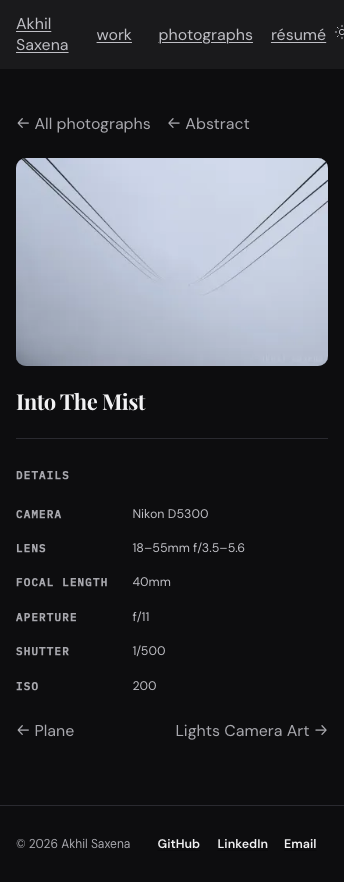
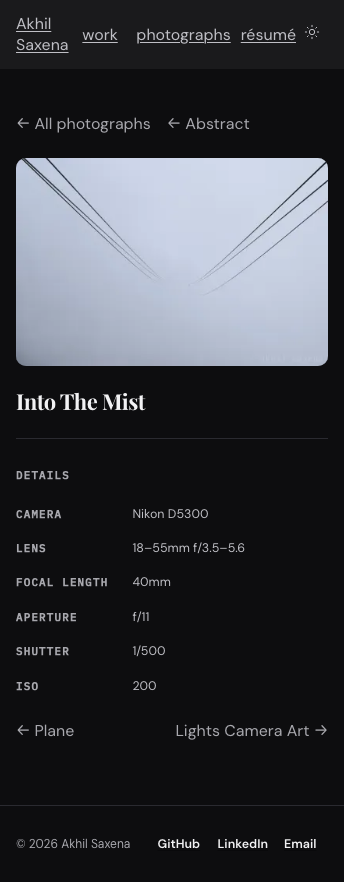
feat(ds): consume 2.0.0-beta.2 — both pinned defects went red on contact, as designed
The audit asserted two known upstream defects AT their measured values rather
than tolerating them with a `>=`, so that a correct fix would announce itself.
It did: installing beta.2 produced 12 failures and every one was good news —
10 on the filter pill across the coarse classes, 2 on the AppBar overflow at
class 1. Nothing else moved.

  filter pill      40 -> 44   (coarse floor now declared upstream)
  AppBar at 344px  14 -> 0    (inline gaps given a class)
  --ds-appbar-h    47 -> 57 / 61 withSearch / 69 coarse, and readable by
                   siblings: it was declared on .ds-atom-appbar, and custom
                   properties inherit to descendants, not siblings

The overflow case is DELETED rather than flipped to 0: its `else` already
asserted 0 for every other class, so a branch that asserts the same thing as its
fallback can only rot. Every class now asserts zero through one path.

Consumed from the registry as a real directory at ^2.0.0-beta.2 — not a symlink,
no `file:` spec, so neither the duplicate-React hazard nor the CI ship gate is
armed.

15 of 42 captures moved, all traceable to the corrected bar height; the largest
is photos-category-344 at -2,118 B, the bar no longer overflowing.

audit 156 passed / 0 failed · npm test 1509/1509 · build, check, typecheck and
all eleven gates 0. The app chunk grew 38 B for the swipe handler, 1,511 B
inside its ceiling.

Changed region(s): [[0.2326, 0.0306, 0.9593, 0.0612], [0.9884, 0.0306, 1.0, 0.0612]]

diff --git a/test/audit/six-class.spec.ts b/test/audit/six-class.spec.ts
@@ -382,39 +382,30 @@ for (const c of CLASSES) {
         // the document it claims to be, or all 36 cells are a measurement of the error page.
         expect(m.title, `${r.path} did not render a titled document`).not.toBe('');
 
-        if (c.n === 1) {
-          /*
-           * 🔴 A MEASURED R-6 FAILURE, ASSERTED AT ITS MEASURED VALUE — finding D-21.
-           *
-           * At the folded cover (344px, the narrowest class in the approved matrix) the document
-           * is 358px wide on EVERY route: 14px of horizontal scroll. The overflowing element is
-           * the AppBar's theme toggle, at `left: 326, right: 358`.
-           *
-           * The cause is upstream and is not reachable from here. `AppBar` renders two unnamed
-           * `<div>`s with INLINE `gap: 28px` and `gap: 18px` and `min-width: auto`, inside a
-           * `justify-content: space-between` flex row with 16px of padding: 16 + 310 + 32 + 16 =
-           * 374 minimum, against a 344px viewport. An inline `gap` cannot be beaten by any
-           * consumer stylesheet without `!important`, which is the workaround the Core Value
-           * forbids and which this phase has declined nineteen times already.
-           *
-           * MEASURED to be independent of webfont loading (355px before `fonts.ready`, 358px
-           * after) and absent at 360px and 374px — it is a class-1 defect, not a phone defect.
-           *
-           * It is asserted AT 14 rather than tolerated, so the day the upstream fix lands this
-           * line fails and says so. It is not "fixed" locally by clipping the bar: that would
-           * hide the theme toggle, which PUB-12 needs.
-           */
-          expect(
-            overflow,
-            `class 1 carries D-21's measured 14px AppBar overflow on ${r.path}; ` +
-              `if this number changed, the finding changed`
-          ).toBe(14);
-        } else {
-          expect(
-            overflow,
-            `${r.path} at ${c.width} × ${c.height}: doc ${m.docWidth} against viewport ${m.innerWidth}`
-          ).toBe(0);
-        }
+        /*
+         * D-21 IS FIXED UPSTREAM, so every class now asserts zero and the special case is gone.
+         *
+         * At the folded cover (344px, the narrowest class in the approved matrix) the document was
+         * 358px wide on EVERY route: 14px of horizontal scroll, the overflowing element being the
+         * AppBar's theme toggle at `left: 326, right: 358`. `AppBar` rendered two unnamed `<div>`s
+         * with INLINE `gap: 28px` and `gap: 18px` inside a `justify-content: space-between` row
+         * with 16px of padding — 16 + 310 + 32 + 16 = 374 minimum against a 344px viewport — and an
+         * inline gap cannot be beaten by a consumer stylesheet without `!important`, the workaround
+         * the Core Value forbids.
+         *
+         * It was asserted AT 14 rather than tolerated, precisely so that the day the upstream fix
+         * landed this line would fail and say so. It did: `2.0.0-beta.2` gave the layout gaps a
+         * class, and this redded on 2 cells while the pill redded on 10 — 12 failures, all of them
+         * the good news. Re-measured against beta.2: 0px at both pointers on all six routes, with
+         * 360/375/380/390/768/841/1024/1440 unchanged.
+         *
+         * Deleted rather than flipped to 0, because a branch asserting the same thing as its
+         * `else` is a branch that can only rot.
+         */
+        expect(
+          overflow,
+          `${r.path} at ${c.width} × ${c.height}: doc ${m.docWidth} against viewport ${m.innerWidth}`
+        ).toBe(0);
       }
     });
 
@@ -895,8 +886,8 @@ for (const c of CLASSES) {
        */
       expect(
         boxes.pill,
-        'OQ-4 / D-3: the filter pill is 4px under the coarse floor, upstream and unfixed'
-      ).toBe(40);
+        'OQ-4 / D-3: the filter pill must meet the 44px coarse floor (fixed in 2.0.0-beta.2)'
+      ).toBe(44);
     });
   });
 }
